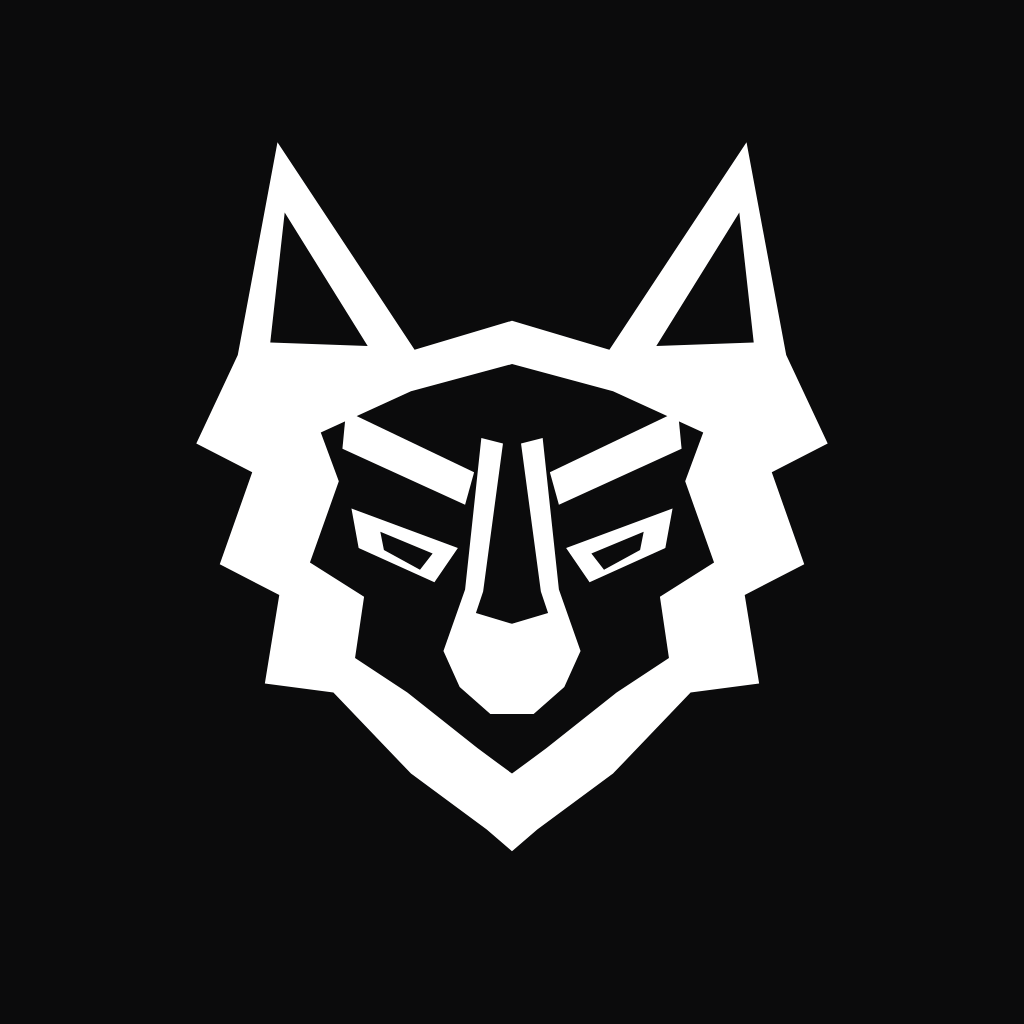
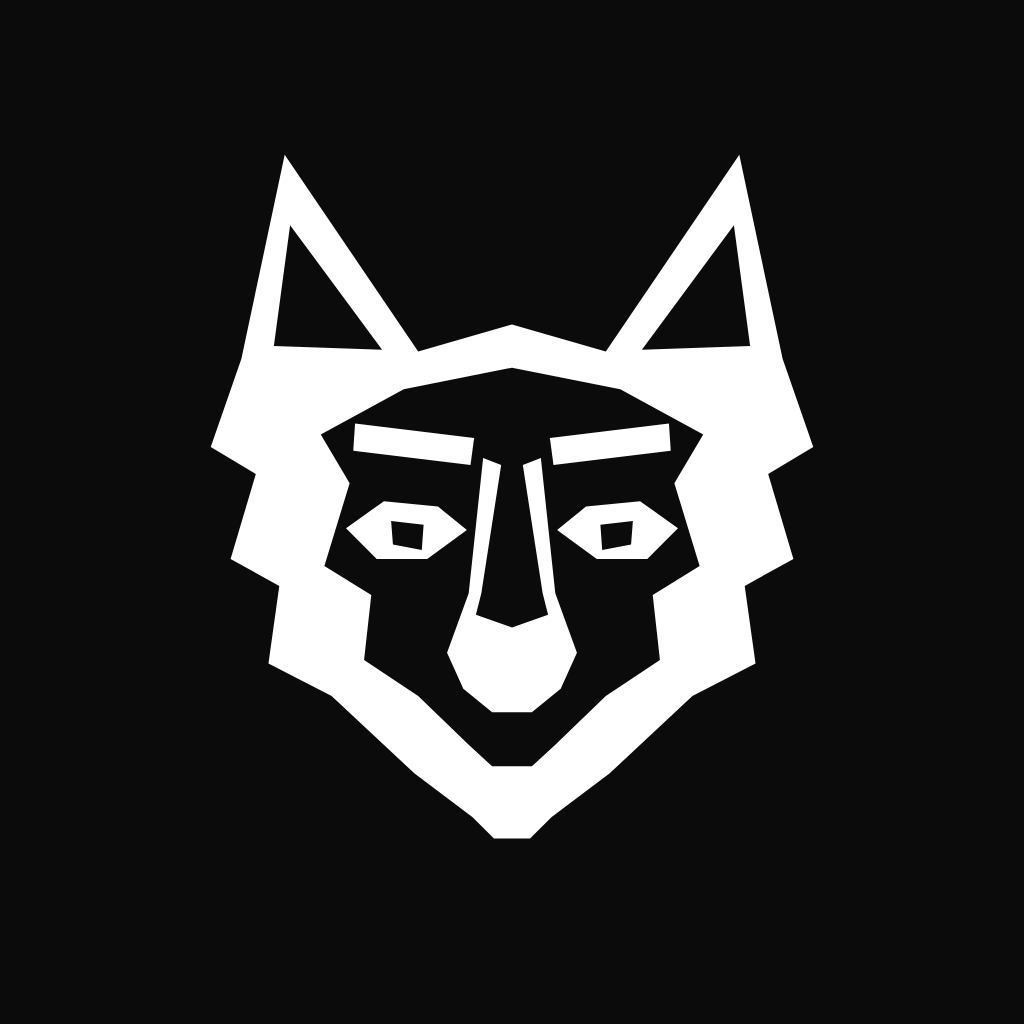
Brand: wolf kalm gemaakt in plaats van streng
De wolf blijft, maar zonder de agressiesignalen. Kalm is niet zwak: de kracht
komt nu uit massa, symmetrie en stilstand.

Drie oorzaken van de strenge uitstraling gericht aangepakt:
- Wenkbrauwen van 26 naar 6 graden. Een brauw die steil naar de neus duikt is
  letterlijk een frons; bij 6 graden leest hij gericht in plaats van boos.
- Ogen van een schuine wig van 20 graden naar een open amandel van 3 graden
  met een pupil, hoger geplaatst en verder van de brauw zodat de blik open is.
- Ruff van drie scherpe punten van ongeveer 60 pixels naar drie ondiepe
  stappen van ongeveer 30 pixels. Minder tribal, meer vacht.
- Kin van een scherpe V-punt naar een vlakke, brede basis.

Drie varianten onderweg verworpen, elk eerst gerenderd en bekeken: een vlakke
wenkbrauw van 0 graden leest robotachtig, een massief oog zonder pupil leest
blind, en een grote iris met dunne witte rand leest als holle oogkassen.

Icoonvariant en lockup meegetrokken; alle PNG-exports opnieuw gegenereerd.
Toegevoegd: vergelijking-agressief-vs-rustig.png met beide versies naast
elkaar op 400, 96, 56 en 32 pixels.

Claude-Session: https://claude.ai/code/session_01WLESB4HVLehAxTcWNbdVBF

diff --git a/coaching-platform/brand/README.md b/coaching-platform/brand/README.md
@@ -1,6 +1,8 @@
 # SAYEDI — beeldmerk
 
-Herteken van het wolfslogo als schone vector. Zelfde idee, andere constructie.
+Herteken van het wolfslogo als schone vector. Zelfde idee, andere constructie — en bewust **kalm in plaats van agressief**.
+
+> Kalm is niet zwak. De kracht komt uit massa, symmetrie en stilstand, niet uit spikes en een frons.
 
 ## Wat er anders is
 
@@ -12,6 +14,25 @@ Herteken van het wolfslogo als schone vector. Zelfde idee, andere constructie.
 | Snuit | smal, verloopt in de kop | eigen U-vorm die onderin uitloopt in een breed, vlak neusblok |
 | Ogen | klein, weinig contrast | scherpe amandelvorm met donkere pupil |
 | Kleinste leesbare maat | ± 90 px | **40 px** met `wolf.svg`, **24 px** met `wolf-icon.svg` |
+
+## Kalme uitstraling
+
+Geen open bek, geen tanden, geen woeste blik, geen tribal vormentaal. Drie dingen veroorzaakten de agressie in het eerste herteken, en die zijn gericht aangepakt:
+
+| Signaal | Was | Nu |
+|---|---|---|
+| Wenkbrauwen | 26° naar de neus toe — dat *is* een frons | **6°** — gericht, geen frons |
+| Ogen | 20° schuine wig, smal | **3°** open amandel met pupil |
+| Ruff | 3 scherpe punten van ± 60 px | 3 ondiepe stappen van ± 30 px |
+| Kin | scherpe V-punt | vlakke, brede basis |
+
+Onderweg zijn drie doodlopende wegen verworpen, elk zichtbaar gerenderd voordat ze afvielen:
+
+- **vlakke wenkbrauw (0°)** — leest robotachtig in plaats van rustig;
+- **massief oog zonder pupil** — leest blind;
+- **grote iris met dunne witte rand** — leest als holle oogkassen, bijna een masker.
+
+De open amandel met een kleine pupil is de enige variant die tegelijk kalm én aanwezig leest. `vergelijking-agressief-vs-rustig.png` zet beide naast elkaar.
 
 De kop is ook smaller en langer gemaakt (verhouding 0,80 in plaats van 0,93). De oorspronkelijke versie liep breed uit onderaan, waardoor hij eerder als kat dan als wolf las.
 
@@ -26,6 +47,7 @@ De kop is ook smaller en langer gemaakt (verhouding 0,80 in plaats van 0,93). De
 | `icon-512.png` | Export van het icoon. |
 | `logo-1200-dark.png` · `logo-1200-light.png` | Export van de lockup. |
 | `wolf.png` · `wolf-icon.png` · `logo.png` | Contactvellen op meerdere maten en achtergronden. Alleen ter controle. |
+| `vergelijking-agressief-vs-rustig.png` | De vorige, strengere versie naast de definitieve. |
 
 ## Gebruik
 
